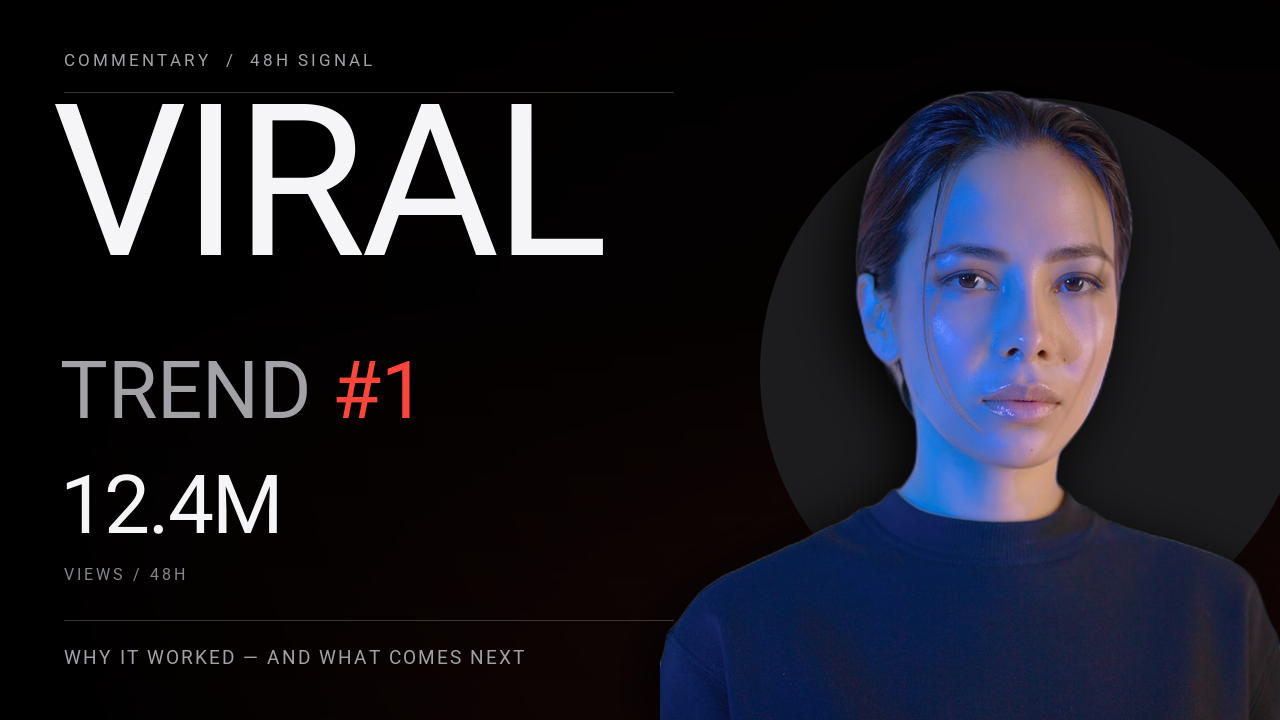
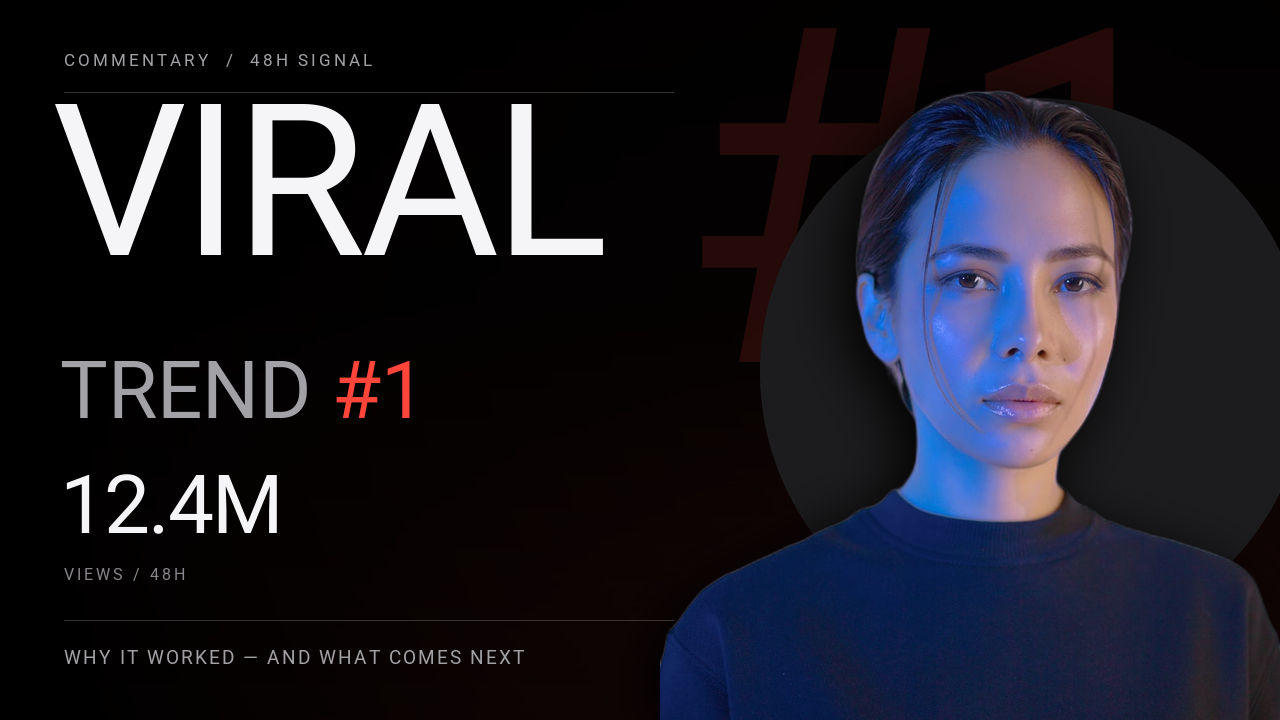
feat: add depth to example backgrounds

Changed region(s): [[0.5312, 0.0306, 0.75, 0.5194], [0.75, 0.0306, 0.875, 0.1528]]

diff --git a/examples/podcast_interview_promo.py b/examples/podcast_interview_promo.py
@@ -10,7 +10,6 @@ Demonstrates:
 import os
 
 from quickthumb import Canvas, Filter, FitMode, LinearGradient
-from quickthumb.models import Shadow
 
 FILE_DIR = os.path.dirname(__file__)
 ASSETS_DIR = os.path.join(FILE_DIR, "..", "assets")
@@ -39,6 +38,13 @@ SHOW_FONT_URL = "https://fonts.gstatic.com/s/dmserifdisplay/v17/-nFnOHM81r4j6k0g
             angle=0,
             stops=[("#000000", 0.0), ("#000000F2", 0.5), ("#00000080", 1.0)],
         )
+    )
+    .shape(
+        shape="rectangle",
+        position=(824, 0),
+        width=456,
+        height=720,
+        color="#F5F5F7",
     )
     .text(
         content="NEW EPISODE  /  06",
@@ -107,13 +113,6 @@ SHOW_FONT_URL = "https://fonts.gstatic.com/s/dmserifdisplay/v17/-nFnOHM81r4j6k0g
         weight=500,
         position=(66, 630),
     )
-    .shape(
-        shape="rectangle",
-        position=(824, 54),
-        width=3,
-        height=612,
-        color="#FFFFFF33",
-    )
     .image(
         path=GUEST_URL,
         position=(1080, 706),
@@ -122,9 +121,6 @@ SHOW_FONT_URL = "https://fonts.gstatic.com/s/dmserifdisplay/v17/-nFnOHM81r4j6k0g
         fit=FitMode.COVER,
         align=("center", "bottom"),
         remove_background=True,
-        effects=[
-            Shadow(offset_x=10, offset_y=18, color="#00000099", blur_radius=24),
-        ],
     )
     .render(OUTPUT_PATH)
 )

diff --git a/examples/youtube_tutorial_explainer.py b/examples/youtube_tutorial_explainer.py
@@ -31,6 +31,13 @@ def main():
         .background(color="#000000")
         .shape(
             shape="rectangle",
+            position=(704, 0),
+            width=576,
+            height=720,
+            color=BLUE,
+        )
+        .shape(
+            shape="rectangle",
             position=(56, 58),
             width=10,
             height=10,
@@ -47,7 +54,7 @@ def main():
         .text(
             content="30 DAYS  /  FROM SCRATCH",
             size=16,
-            color=GRAY,
+            color="#FFFFFFB8",
             weight=700,
             letter_spacing=2,
             position=(1224, 52),
@@ -104,12 +111,12 @@ def add_step(canvas, number, label, x, y):
         position=(x, y),
         width=480,
         height=1,
-        color="#FFFFFF33",
+        color="#FFFFFF66",
     )
     canvas.text(
         content=number,
         size=20,
-        color=BLUE,
+        color="#FFFFFFB8",
         weight=700,
         letter_spacing=2,
         position=(x, y + 30),

diff --git a/examples/youtube_reaction.py b/examples/youtube_reaction.py
@@ -38,6 +38,16 @@ PORTRAIT_URL = (
             stops=[("#000000", 0.0), ("#000000E8", 0.46), ("#00000011", 1.0)],
         )
     )
+    .text(
+        content="#1",
+        size=470,
+        color="#FF453A",
+        opacity=0.13,
+        weight=900,
+        letter_spacing=-18,
+        position=(1210, 28),
+        align=("right", "top"),
+    )
     .shape(
         shape="ellipse",
         position=(1034, 372),
